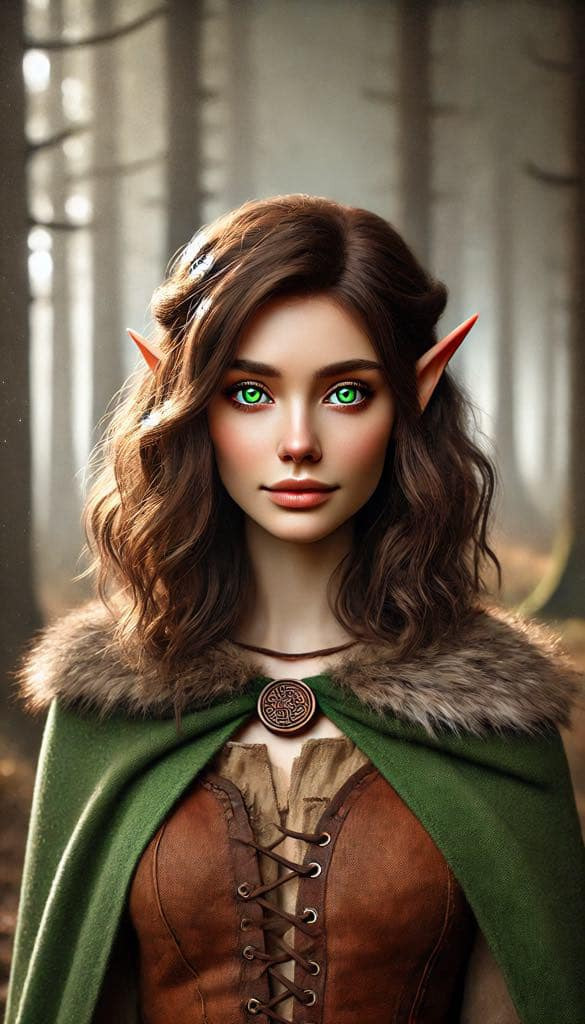
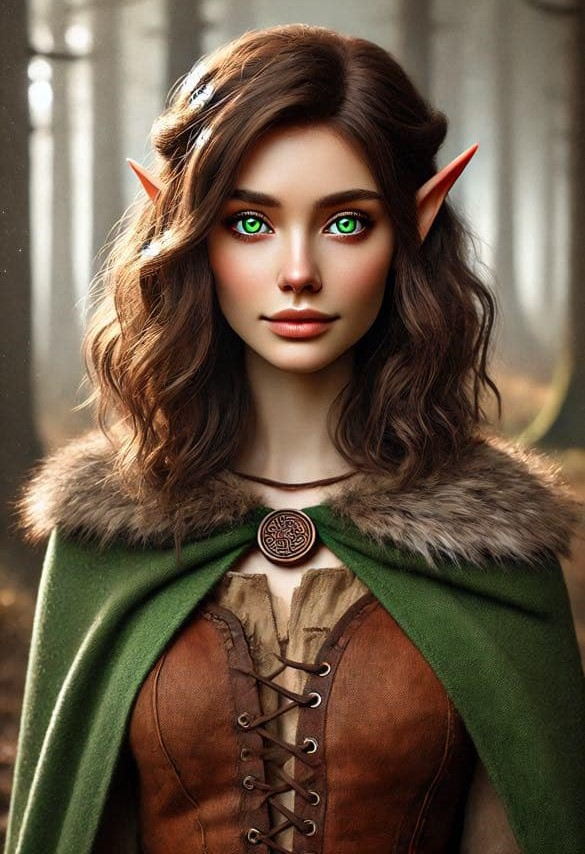
style: cover bottom

diff --git a/src/components/Gallery/styles.module.css b/src/components/Gallery/styles.module.css
@@ -25,8 +25,8 @@
   width: 100%;
   height: 100%;
   object-fit: cover; /* Ensures the image fills the container while cropping excess */
+  object-position: top; /* Keeps the top part visible and crops the bottom */
 }
-
 
 .arrow {
   position: absolute;
